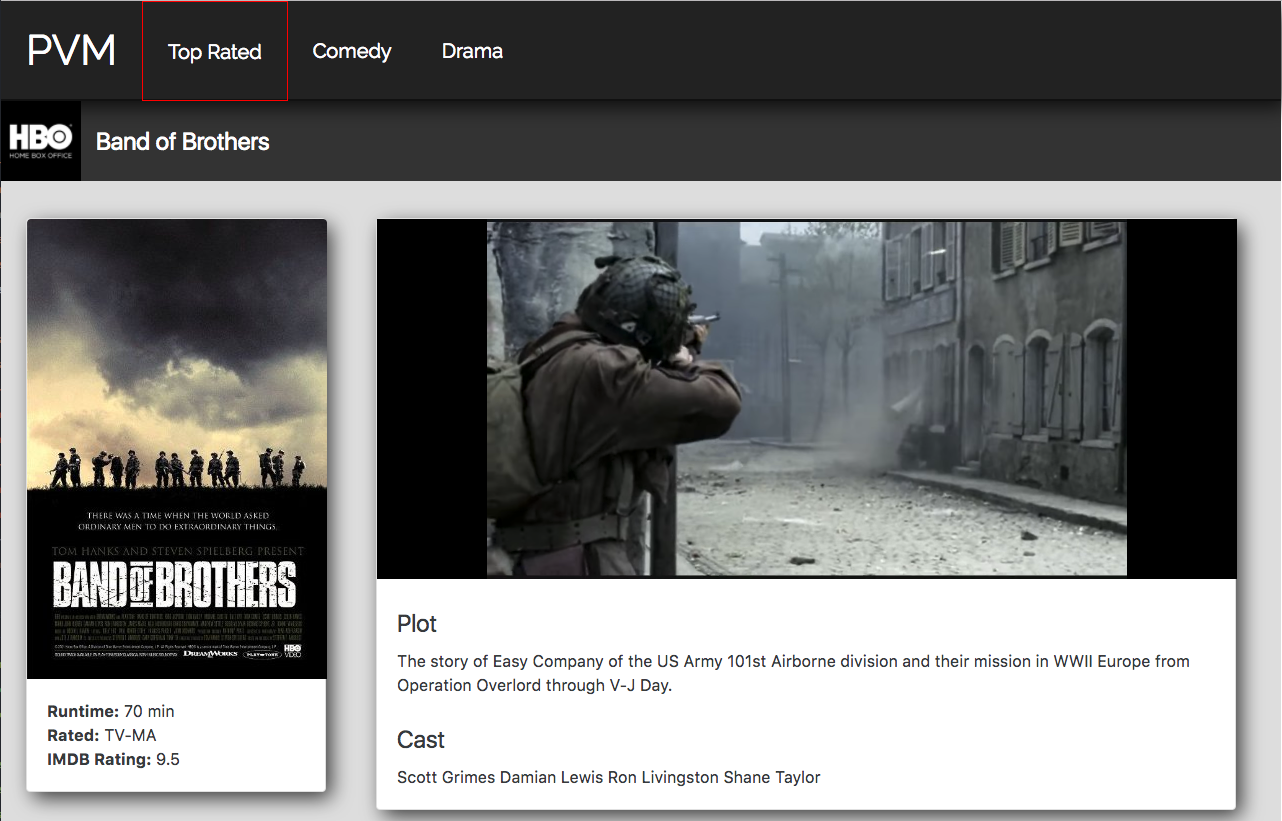
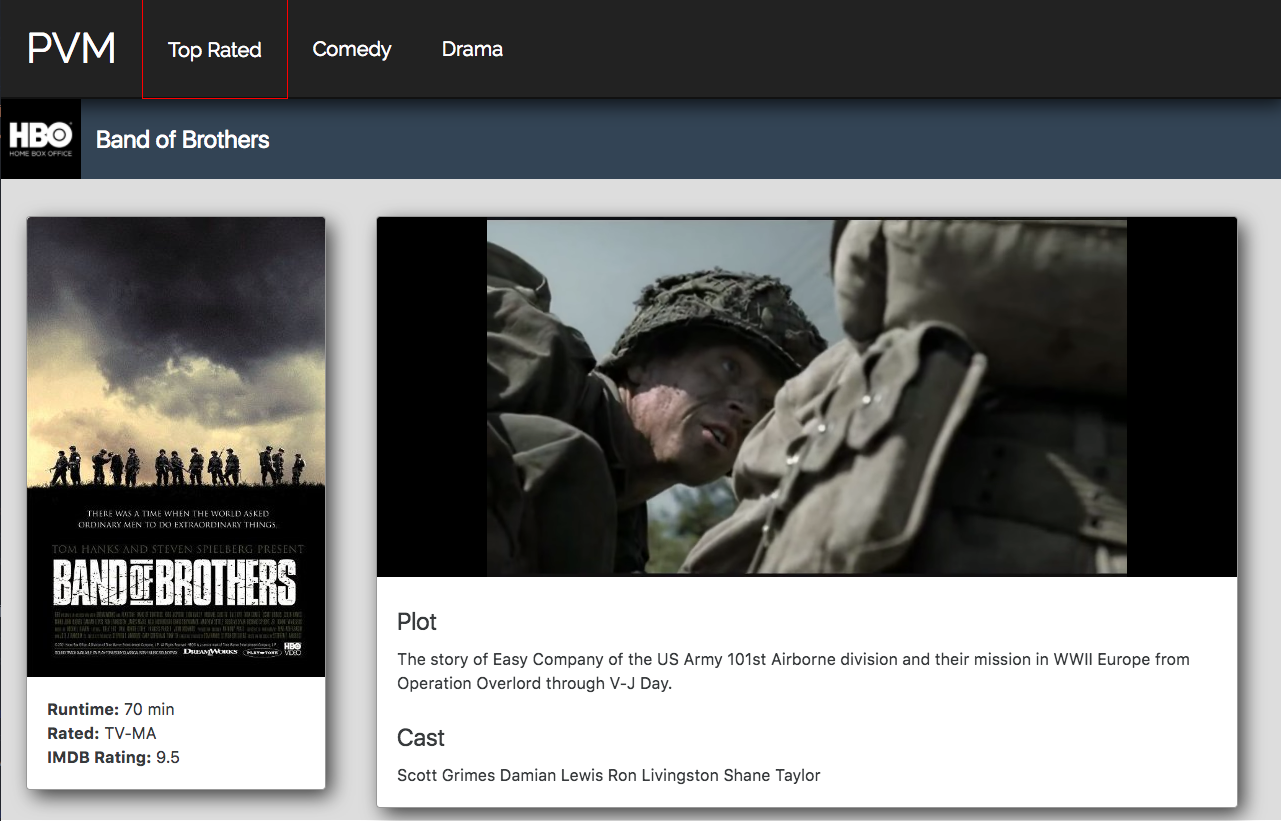
updated readme

diff --git a/client/src/app/containers/details/details.css b/client/src/app/containers/details/details.css
@@ -16,7 +16,7 @@
   overflow:hidden;
   border:none !important;
   border-radius:0 !important;
-  background:#333 !important;
+  background:#345 !important;
 
 }
 
@@ -40,9 +40,11 @@
 
 .details-poster{
   width:300px;
+  border-color:#999 !important;
+  overflow:hidden;
   -webkit-box-shadow: 6px 7px 31px -1px rgba(0,0,0,0.75);
--moz-box-shadow: 6px 7px 31px -1px rgba(0,0,0,0.75);
-box-shadow: 6px 7px 31px -1px rgba(0,0,0,0.75);
+  -moz-box-shadow: 6px 7px 31px -1px rgba(0,0,0,0.75);
+  box-shadow: 6px 7px 31px -1px rgba(0,0,0,0.75);
 }
 
 .details-cast{
@@ -50,7 +52,9 @@ box-shadow: 6px 7px 31px -1px rgba(0,0,0,0.75);
 }
 
 .details-preview{
-  width:860px;
+  width:862px;
+  border-color:#999 !important;
+  overflow:hidden;
   -webkit-box-shadow: 6px 7px 31px -1px rgba(0,0,0,0.75);
 -moz-box-shadow: 6px 7px 31px -1px rgba(0,0,0,0.75);
 box-shadow: 6px 7px 31px -1px rgba(0,0,0,0.75);

diff --git a/client/src/app/common/show-card/show-card.css b/client/src/app/common/show-card/show-card.css
@@ -6,7 +6,7 @@
   cursor:pointer;
   border-width:2px !important;
   border-style:solid !important;
-  border-color: #111 !important;
+  border-color: #222 !important;
   -webkit-box-shadow: 6px 7px 31px -1px rgba(0,0,0,0.75);
 -moz-box-shadow: 6px 7px 31px -1px rgba(0,0,0,0.75);
 box-shadow: 6px 7px 31px -1px rgba(0,0,0,0.75);
@@ -16,6 +16,7 @@ box-shadow: 6px 7px 31px -1px rgba(0,0,0,0.75);
   width:372px;
   height:200px;
   overflow:hidden;
+  background:black;
 }
 
 
@@ -49,7 +50,7 @@ box-shadow: 6px 7px 31px -1px rgba(0,0,0,0.75);
 
   width:272px;
   line-height:50px;
-  float:left;background:#333;
+  float:left;background:#345;
   color:white;
   padding-left:25px;
   font-size:18px;

diff --git a/client/src/app/common/show-list/show-list.jsx b/client/src/app/common/show-list/show-list.jsx
@@ -1,5 +1,4 @@
-import React from 'react';
-import ShowCard from 'common/show-card/show-card.jsx'
+
 import style from './show-list.css';
 import {Grid,GridNode} from 'lib/grid';
 
@@ -8,12 +7,12 @@ export default React.createClass({
     let show, href;
     return (
     <div className="show-list" >
-      <Grid gridId="gallery" gridLength="6" rowLength="3">
+      <Grid gridId="gallery">
       {Object.keys(this.props.shows).map(key => {
         show = this.props.shows[key];
         return (
           <GridNode nodeId={key} key={key}>
-           <ShowCard key={key} show={show}/>
+           <ShowCard show={show}/>
           </GridNode>
          )}
       )}

diff --git a/readme.md b/readme.md
@@ -20,7 +20,7 @@ A prototype of the Personal View Mosaic application.
     * npm run dist
 5. To view build, run 'http-server' or 'npm run dev' and navigate to localhost:8080
 
-### Server Installation (To Be Developed Later)
+### Server Installation 
 1. Navigate to the server folder.
 2. Install all Node Modules defined in package.json
     * npm install
@@ -31,3 +31,87 @@ A prototype of the Personal View Mosaic application.
 The dev process will open your default browser for you, give it a moment to auto-refresh once the build finishes.
 
 [http://localhost:8080/](http://localhost:8080/)
+
+## Remote Control
+
+### Overview
+To make content navigatable via remote control, use the GridManager, Grid, and GridNode components.  
+
+A Grid represents a collection of nodes with a fixed row length and quantity. Each node in the grid is refered to as a GridNode. 
+
+A GridManager represents a collection of grids and manages their arrangement, as well as the position of the currently selected Grid and GridNode.
+
+### GridManager
+
+```Javascript
+import React from 'react';
+import {GridManager} from 'lib/grid';
+
+export default React.createClass({
+
+  render() {
+
+    let config = {
+      grids:[
+        {
+          id:"nav",
+          rowLength:3,
+          nodeLength:3,
+          top:null,
+          right:null,
+          bottom:"gallery",
+          left:null
+        },
+        {
+          id:"gallery",
+          rowLength:3,
+          nodeLength:6,
+          top:"nav",
+          right:null,
+          bottom:null,
+          left:null
+        }
+      ],
+      initialGrid:"nav"
+    }
+
+    return (
+      <GridManager config={config}>
+          {this.props.children}
+      </GridManager>
+    )
+  }
+});
+```
+To begin, wrap the root element of your application with the GridManager tag. Pass in the list of your grids, along with their orientation, and the intial grid you want to remote control to focus on. Grids are referenced by their id, which is a string. When defining a grid, you must specify the length of the rows along with the total number of nodes.
+
+### Grid & GridNode
+
+```Javascript
+import React from 'react';
+import ShowCard from 'common/show-card/show-card.jsx'
+import {Grid,GridNode} from 'lib/grid';
+
+export default React.createClass({
+  render() {
+    let show, href;
+    return (
+    <div className="show-list" >
+      <Grid gridId="gallery">
+      {Object.keys(this.props.shows).map(key => {
+        show = this.props.shows[key];
+        return (
+          <GridNode nodeId={key} key={key}>
+           <ShowCard key={key} show={show}/>
+          </GridNode>
+         )}
+      )}
+    </Grid>
+  </div>)
+  }
+});
+```
+
+Any link you want to be navigatable via remote must be wrapped in a GridNode component. This GridNode component must be passed an nodeId, and these nodeIds should be sequential. The collection of GridNodes must be wrapped in a Grid component, which must be passed a gridId which links it to a grid defined in the config object previously given to GridManager.
+
+
